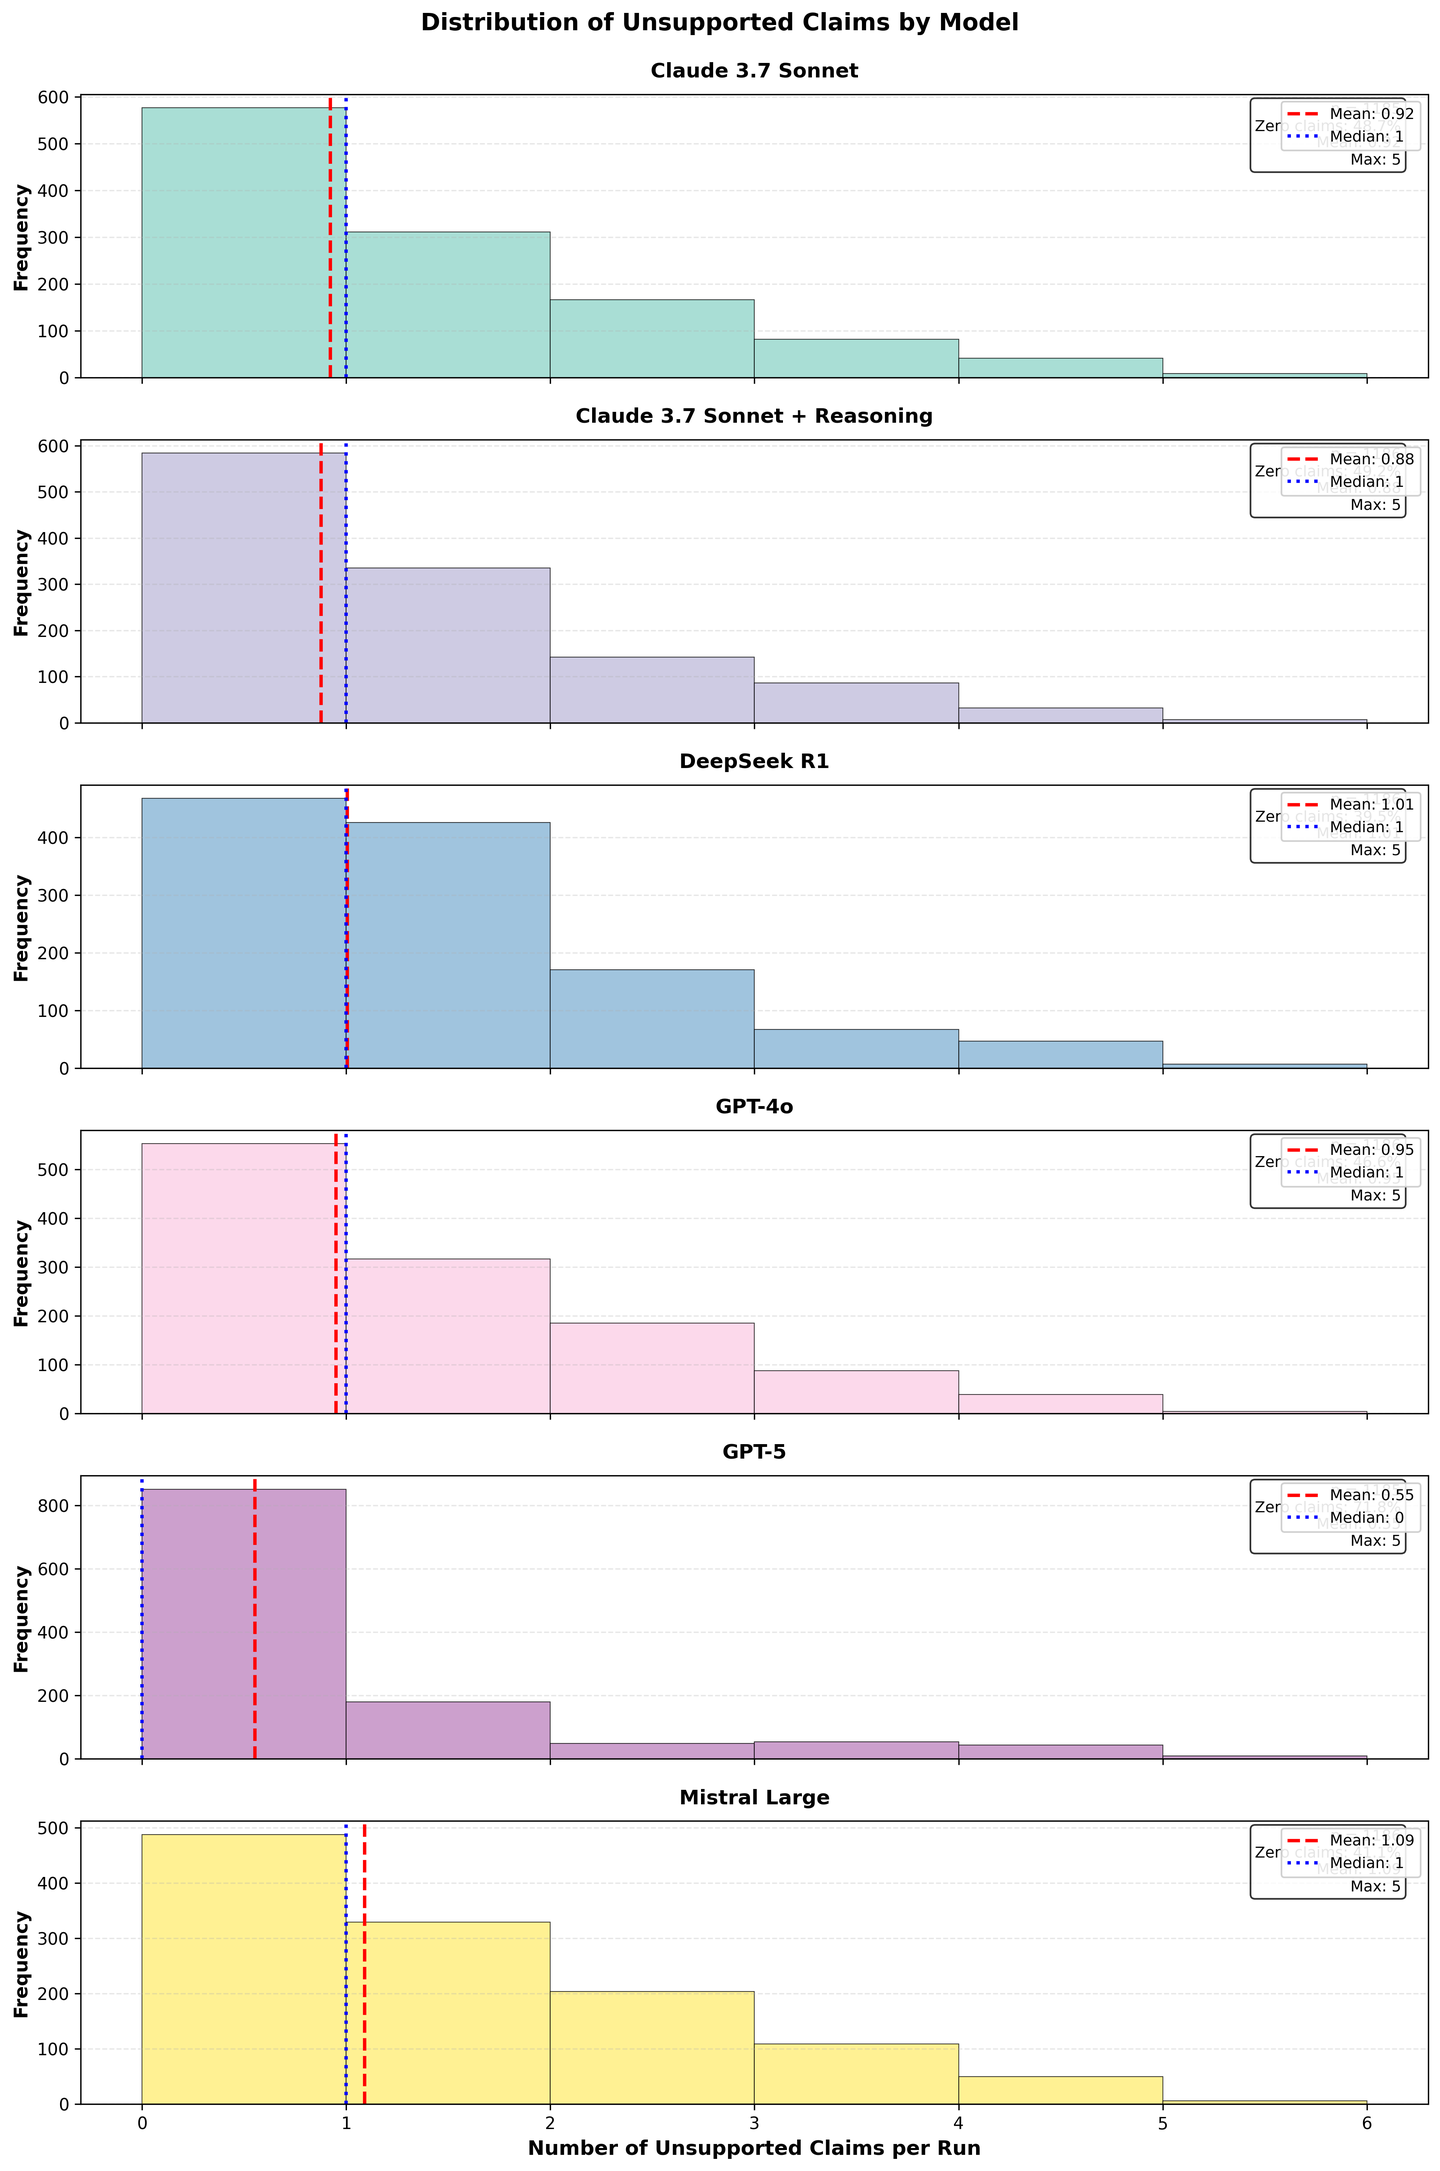
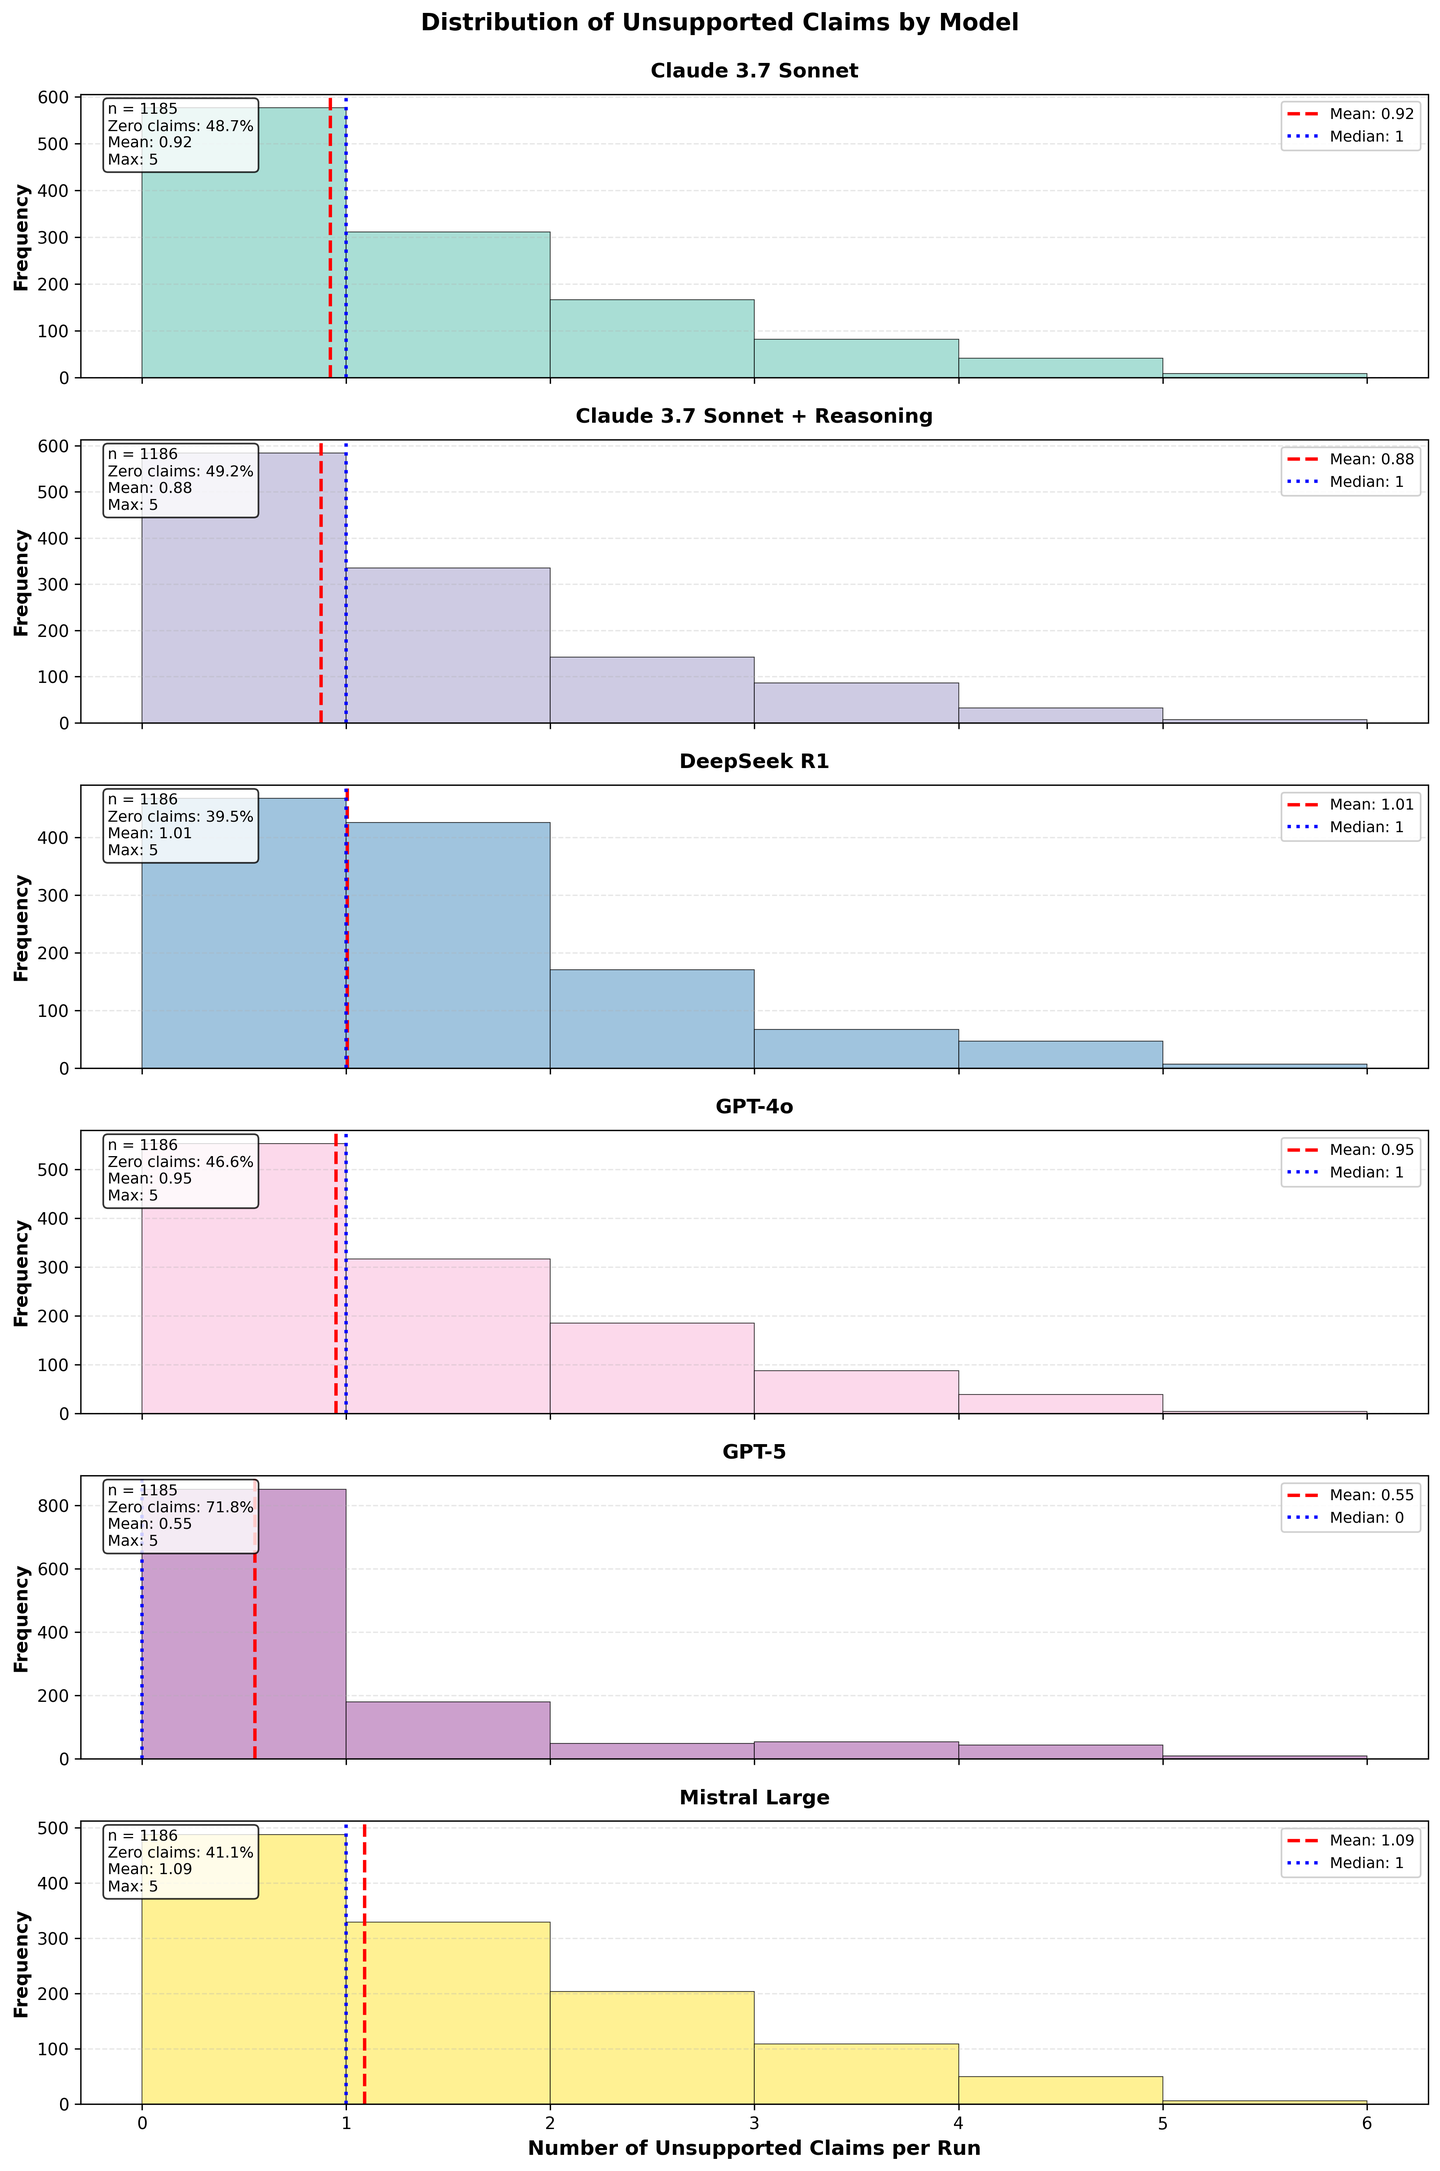
more plots fixed

diff --git a/src/rag_analysis/hallucination_rag_plots/4_composition_failure_root_causes.py b/src/rag_analysis/hallucination_rag_plots/4_composition_failure_root_causes.py
@@ -1,11 +1,13 @@
 """
-Plot 4: Composition Failure Root Causes
+Plot 4: Composition Failure Root Causes (Per Model)
 
 Grouped bar chart showing percentage of composition failures that also have:
 - coverage_gap
 - carry_drop
 - late_hit
 - poor_query_quality
+
+6 subplots, one for each model.
 
 Insight: What leads to composition failure?
 """
@@ -20,7 +22,8 @@ import numpy as np
 sys.path.insert(0, str(Path(__file__).resolve().parents[1]))
 from hallucination_rag_plots.hall_plot_utils import (
     load_hallucination_judgments, load_coverage_judgments, 
-    load_quality_judgments, create_merged_dataset, has_poor_query_quality
+    load_quality_judgments, create_merged_dataset, has_poor_query_quality,
+    normalize_model_name
 )
 
 OUTPUT_DIR = Path(__file__).resolve().parents[2] / 'rag_analysis' / 'output'
@@ -28,7 +31,7 @@ PLOT_DIR = Path(__file__).resolve().parent
 
 
 def main():
-    """Generate composition failure root causes plot."""
+    """Generate composition failure root causes plot with 6 subplots (one per model)."""
     # Load all judgment types
     hall_records = load_hallucination_judgments(OUTPUT_DIR)
     cov_records = load_coverage_judgments(OUTPUT_DIR)
@@ -37,93 +40,126 @@ def main():
     # Merge datasets
     merged = create_merged_dataset(hall_records, cov_records, qual_records)
     
-    # Analyze composition failures
-    comp_failures = [rec for rec in merged 
-                     if rec['hallucination'].get('composition_and_faithfulness', {}).get('composition_failure', False)]
+    # Group by model
+    model_data = {}
     
-    print(f"\nTotal composition failures: {len(comp_failures)}")
-    
-    if not comp_failures:
-        print("No composition failures found!")
-        return
-    
-    # Count co-occurrences
-    root_causes = {
-        'Coverage Gap': 0,
-        'Anchor Carry-Drop': 0,
-        'Late Hit': 0,
-        'Poor Query Quality': 0
-    }
-    
-    for rec in comp_failures:
+    for rec in merged:
+        model = normalize_model_name(rec.get('model', ''))
+        
+        # Check if it's a composition failure
+        if not rec['hallucination'].get('composition_and_faithfulness', {}).get('composition_failure', False):
+            continue
+        
+        if model not in model_data:
+            model_data[model] = {
+                'total': 0,
+                'Coverage Gap': 0,
+                'Anchor Carry-Drop': 0,
+                'Late Hit': 0,
+                'Poor Query Quality': 0
+            }
+        
+        model_data[model]['total'] += 1
+        
         cov = rec.get('coverage', {})
         qual = rec.get('quality', {})
         
         if cov:
             if cov.get('retrieval_coverage_gap', {}).get('has_gap', False):
-                root_causes['Coverage Gap'] += 1
+                model_data[model]['Coverage Gap'] += 1
             
             if cov.get('anchor_carry_drop', {}).get('any_carry_drop', False):
-                root_causes['Anchor Carry-Drop'] += 1
+                model_data[model]['Anchor Carry-Drop'] += 1
             
             if cov.get('late_hit_per_hop', {}).get('any_late_hit', False):
-                root_causes['Late Hit'] += 1
+                model_data[model]['Late Hit'] += 1
         
         if qual and has_poor_query_quality(qual):
-            root_causes['Poor Query Quality'] += 1
+            model_data[model]['Poor Query Quality'] += 1
     
-    # Calculate percentages
-    total = len(comp_failures)
-    percentages = {k: 100 * v / total for k, v in root_causes.items()}
+    # Sort models
+    models = sorted(model_data.keys())
     
-    # Create bar chart
-    fig, ax = plt.subplots(figsize=(12, 7))
+    if len(models) == 0:
+        print("No composition failures found!")
+        return
     
-    causes = list(root_causes.keys())
-    values = [percentages[c] for c in causes]
-    counts = [root_causes[c] for c in causes]
+    print(f"\nTotal composition failures: {sum(model_data[m]['total'] for m in models)}")
     
+    # Create figure with 2x3 subplots
+    fig, axes = plt.subplots(2, 3, figsize=(18, 12))
+    axes = axes.flatten()
+    
+    causes = ['Coverage Gap', 'Anchor Carry-Drop', 'Late Hit', 'Poor Query Quality']
     colors = ['#e74c3c', '#f39c12', '#3498db', '#9b59b6']
     
-    bars = ax.bar(causes, values, color=colors, alpha=0.8, 
-                  edgecolor='black', linewidth=1.5)
+    # Plot each model
+    for idx, model in enumerate(models):
+        if idx >= 6:  # Only show first 6 models
+            break
+        
+        ax = axes[idx]
+        data = model_data[model]
+        total = data['total']
+        
+        if total == 0:
+            ax.text(0.5, 0.5, f'No composition failures\nfor {model}', 
+                   ha='center', va='center', transform=ax.transAxes)
+            ax.set_title(model, fontsize=12, fontweight='bold')
+            continue
+        
+        # Calculate percentages
+        percentages = [100 * data[cause] / total for cause in causes]
+        counts = [data[cause] for cause in causes]
+        
+        # Create bars
+        bars = ax.bar(range(len(causes)), percentages, color=colors, alpha=0.8, 
+                     edgecolor='black', linewidth=1)
+        
+        # Add value labels on bars
+        for i, (bar, val, count) in enumerate(zip(bars, percentages, counts)):
+            height = bar.get_height()
+            if height > 5:  # Only show label if bar is tall enough
+                ax.text(bar.get_x() + bar.get_width()/2., height/2,
+                       f'{val:.0f}%\n(n={count})',
+                       ha='center', va='center', fontsize=8, fontweight='bold',
+                       color='white' if height > 20 else 'black')
+        
+        # Add reference line at 50%
+        ax.axhline(y=50, color='gray', linestyle='--', alpha=0.4, linewidth=1)
+        
+        # Formatting
+        ax.set_ylabel('% of Failures', fontsize=9, fontweight='bold')
+        ax.set_title(f'{model}\n(Total Failures: n={total})', fontsize=11, fontweight='bold', pad=10)
+        ax.set_xticks(range(len(causes)))
+        ax.set_xticklabels(causes, rotation=15, ha='right', fontsize=8)
+        ax.set_ylim(0, 105)
+        ax.grid(axis='y', alpha=0.3, linestyle='--')
     
-    # Add value labels on bars
-    for bar, val, count in zip(bars, values, counts):
-        height = bar.get_height()
-        ax.text(bar.get_x() + bar.get_width()/2., height + 1,
-               f'{val:.1f}%\n(n={count})',
-               ha='center', va='bottom', fontsize=11, fontweight='bold')
+    # Hide unused subplots
+    for idx in range(len(models), 6):
+        axes[idx].axis('off')
     
-    # Add reference line at 50%
-    ax.axhline(y=50, color='gray', linestyle='--', alpha=0.5, linewidth=1.5,
-              label='50% threshold')
+    # Overall title
+    fig.suptitle('Composition Failure Root Causes (Per Model)\nWhat leads to composition failure?',
+                fontsize=15, fontweight='bold', y=0.995)
     
-    ax.set_ylabel('% of Composition Failures', fontsize=12, fontweight='bold')
-    ax.set_xlabel('Root Cause', fontsize=12, fontweight='bold')
-    ax.set_title(f'Composition Failure Root Causes\n(Total Composition Failures: n={total})', 
-                 fontsize=14, fontweight='bold', pad=20)
-    ax.set_ylim(0, max(values) * 1.15)
-    ax.legend(loc='upper right', framealpha=0.9)
-    ax.grid(axis='y', alpha=0.3, linestyle='--')
-    
-    # Rotate x-axis labels if needed
-    plt.xticks(rotation=15, ha='right')
-    
-    plt.tight_layout()
+    plt.tight_layout(rect=[0, 0, 1, 0.985])
     output_path = PLOT_DIR / '4_composition_failure_root_causes.png'
     plt.savefig(output_path, dpi=300, bbox_inches='tight')
     print(f"Saved: {output_path}")
     plt.close()
     
     # Print statistics
-    print("\n=== Composition Failure Root Causes ===")
-    print(f"Total composition failures: {total}")
-    print("\nCo-occurrence with root causes:")
-    for cause in causes:
-        count = root_causes[cause]
-        pct = percentages[cause]
-        print(f"  {cause}: {count} ({pct:.1f}%)")
+    print("\n=== Composition Failure Root Causes (Per Model) ===")
+    for model in sorted(models):
+        data = model_data[model]
+        total = data['total']
+        print(f"\n{model} (Total failures: {total}):")
+        for cause in causes:
+            count = data[cause]
+            pct = 100 * count / total if total > 0 else 0
+            print(f"  {cause}: {count} ({pct:.1f}%)")
 
 
 if __name__ == '__main__':

diff --git a/src/rag_analysis/hallucination_rag_plots/5_composition_failure_rate.py b/src/rag_analysis/hallucination_rag_plots/5_composition_failure_rate.py
@@ -2,6 +2,7 @@
 Plot 5: Composition Failure Rate by Model
 
 Bar chart showing percentage of runs with composition failure per model.
+Only counts failures when is_correct is False.
 
 Insight: Which models have higher composition failure rates?
 """
@@ -15,7 +16,8 @@ import numpy as np
 # Add parent directory to path
 sys.path.insert(0, str(Path(__file__).resolve().parents[1]))
 from hallucination_rag_plots.hall_plot_utils import (
-    load_hallucination_judgments, normalize_model_name
+    load_hallucination_judgments, load_coverage_judgments, 
+    create_merged_dataset, normalize_model_name
 )
 
 OUTPUT_DIR = Path(__file__).resolve().parents[2] / 'rag_analysis' / 'output'
@@ -24,17 +26,25 @@ PLOT_DIR = Path(__file__).resolve().parent
 
 def main():
     """Generate composition failure rate by model plot."""
-    records = load_hallucination_judgments(OUTPUT_DIR)
+    # Load hallucination and coverage judgments
+    hall_records = load_hallucination_judgments(OUTPUT_DIR)
+    cov_records = load_coverage_judgments(OUTPUT_DIR)
+    
+    # Merge datasets to get is_correct field
+    merged = create_merged_dataset(hall_records, cov_records, [])
     
     # Group by model
     model_stats = defaultdict(lambda: {'total': 0, 'failures': 0})
     
-    for rec in records:
+    for rec in merged:
         model = normalize_model_name(rec.get('model', ''))
-        cf = rec.get('parsed_judgment', {}).get('composition_and_faithfulness', {})
+        is_correct = rec.get('is_correct', False)
+        cf = rec.get('hallucination', {}).get('composition_and_faithfulness', {})
         
         model_stats[model]['total'] += 1
-        if cf.get('composition_failure', False):
+        
+        # Only count as failure if is_correct is False AND composition_failure is True
+        if not is_correct and cf.get('composition_failure', False):
             model_stats[model]['failures'] += 1
     
     # Calculate percentages
@@ -73,11 +83,11 @@ def main():
     
     ax.set_ylabel('Composition Failure Rate (%)', fontsize=12, fontweight='bold')
     ax.set_xlabel('Model', fontsize=12, fontweight='bold')
-    ax.set_title('Composition Failure Rate by Model', 
+    ax.set_title('Composition Failure Rate by Model\n(Only counting failures when answer is incorrect)', 
                  fontsize=14, fontweight='bold', pad=20)
     ax.set_xticks(x)
     ax.set_xticklabels(models, rotation=30, ha='right')
-    ax.set_ylim(0, max(failure_rates) * 1.2)
+    ax.set_ylim(0, max(failure_rates) * 1.2 if failure_rates else 10)
     ax.legend(loc='upper right', framealpha=0.9, fontsize=11)
     ax.grid(axis='y', alpha=0.3, linestyle='--')
     
@@ -89,9 +99,10 @@ def main():
     
     # Print statistics
     print("\n=== Composition Failure Rate by Model ===")
+    print("(Only counting failures when is_correct = False)")
     for model in models:
         stats = model_stats[model]
-        rate = 100 * stats['failures'] / stats['total']
+        rate = 100 * stats['failures'] / stats['total'] if stats['total'] > 0 else 0
         print(f"\n{model}:")
         print(f"  Total runs: {stats['total']}")
         print(f"  Failures: {stats['failures']}")

diff --git a/src/rag_analysis/hallucination_rag_plots/hall_plot_utils.py b/src/rag_analysis/hallucination_rag_plots/hall_plot_utils.py
@@ -34,12 +34,19 @@ def load_coverage_judgments(output_dir: Path) -> List[Dict[str, Any]]:
     """Load all coverage gap judgment records from output directory."""
     records = []
     for f in output_dir.glob('*coverage_gap_judgments.jsonl'):
+        # Extract model name from filename
+        filename = f.name
+        # Remove 'responses_' prefix and '_reverified_coverage_gap_judgments.jsonl' or '_coverage_gap_judgments.jsonl' suffix
+        model_from_file = filename.replace('responses_', '').replace('_reverified_coverage_gap_judgments.jsonl', '').replace('_coverage_gap_judgments.jsonl', '')
+        
         with open(f, 'r', encoding='utf-8') as file:
             for line in file:
                 if not line.strip():
                     continue
                 try:
                     rec = json.loads(line)
+                    # Override model field with the one extracted from filename
+                    rec['model'] = model_from_file
                     records.append(rec)
                 except json.JSONDecodeError:
                     continue
@@ -50,12 +57,19 @@ def load_quality_judgments(output_dir: Path) -> List[Dict[str, Any]]:
     """Load all quality judgment records from output directory."""
     records = []
     for f in output_dir.glob('*quality_judement.jsonl'):
+        # Extract model name from filename
+        filename = f.name
+        # Remove 'responses_' prefix and '_reverified_quality_judement.jsonl' or '_quality_judement.jsonl' suffix
+        model_from_file = filename.replace('responses_', '').replace('_reverified_quality_judement.jsonl', '').replace('_quality_judement.jsonl', '')
+        
         with open(f, 'r', encoding='utf-8') as file:
             for line in file:
                 if not line.strip():
                     continue
                 try:
                     rec = json.loads(line)
+                    # Override model field with the one extracted from filename
+                    rec['model'] = model_from_file
                     records.append(rec)
                 except json.JSONDecodeError:
                     continue

diff --git a/src/rag_analysis/hallucination_rag_plots/3_unsupported_claims_distribution.py b/src/rag_analysis/hallucination_rag_plots/3_unsupported_claims_distribution.py
@@ -64,18 +64,19 @@ def main():
         ax.axvline(median_val, color='blue', linestyle=':', linewidth=2,
                   label=f'Median: {median_val:.0f}')
         
-        # Add text box with statistics
+        # Add text box with statistics (positioned on the left)
         stats_text = f'n = {len(unsupported)}\n'
         stats_text += f'Zero claims: {zero_pct:.1f}%\n'
         stats_text += f'Mean: {mean_val:.2f}\n'
         stats_text += f'Max: {max(unsupported)}'
         
-        ax.text(0.98, 0.97, stats_text, transform=ax.transAxes,
-               fontsize=9, verticalalignment='top', horizontalalignment='right',
+        ax.text(0.02, 0.97, stats_text, transform=ax.transAxes,
+               fontsize=9, verticalalignment='top', horizontalalignment='left',
                bbox=dict(boxstyle='round', facecolor='white', alpha=0.8))
         
         ax.set_ylabel('Frequency', fontsize=11, fontweight='bold')
         ax.set_title(model, fontsize=12, fontweight='bold', pad=10)
+        # Position legend on upper right to avoid overlap with text box
         ax.legend(loc='upper right', framealpha=0.9, fontsize=9)
         ax.grid(axis='y', alpha=0.3, linestyle='--')
     
